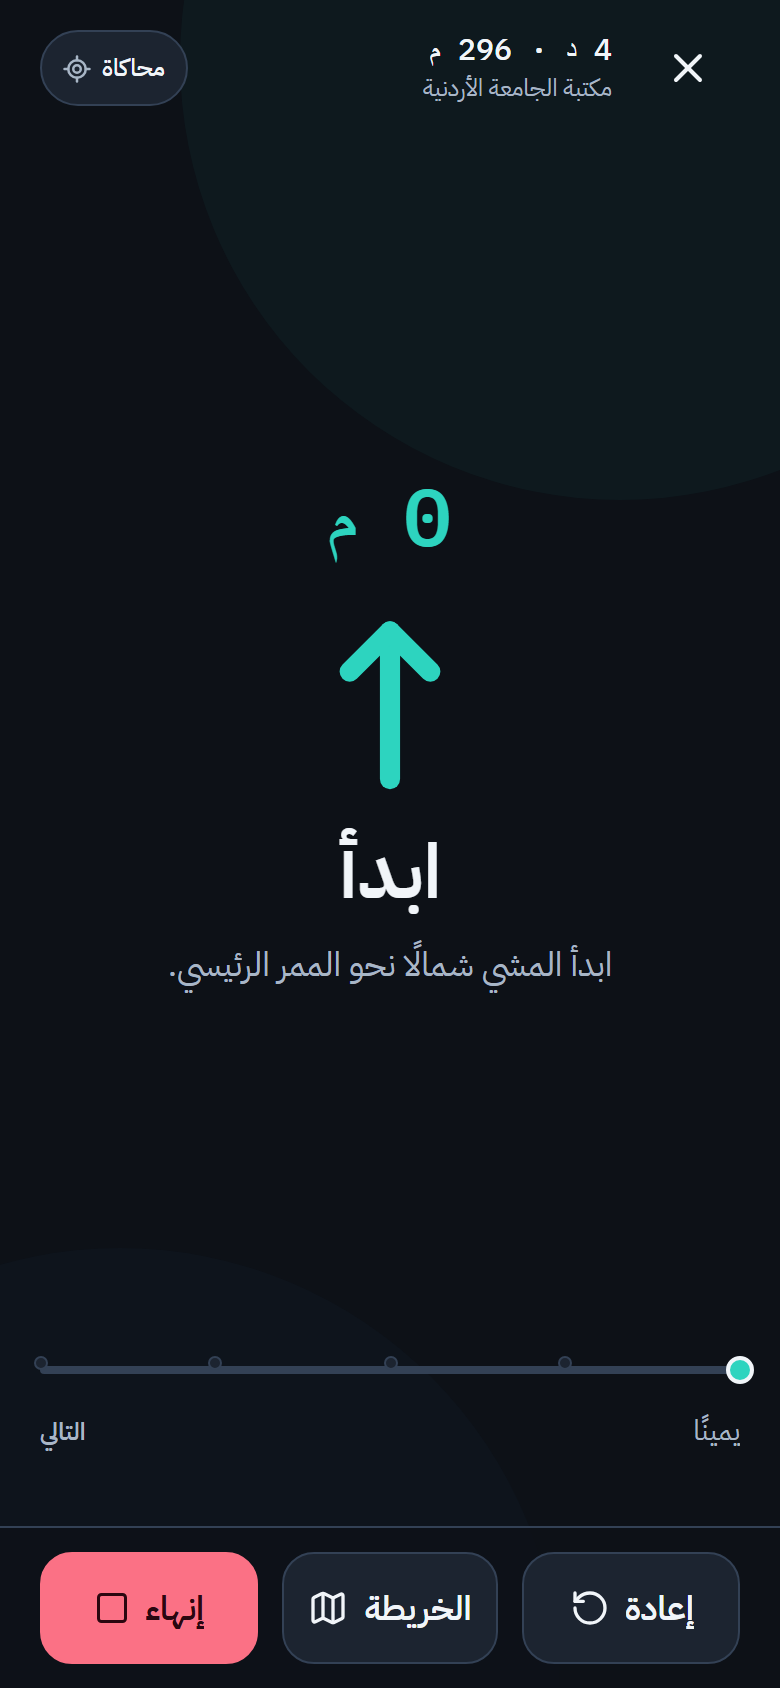
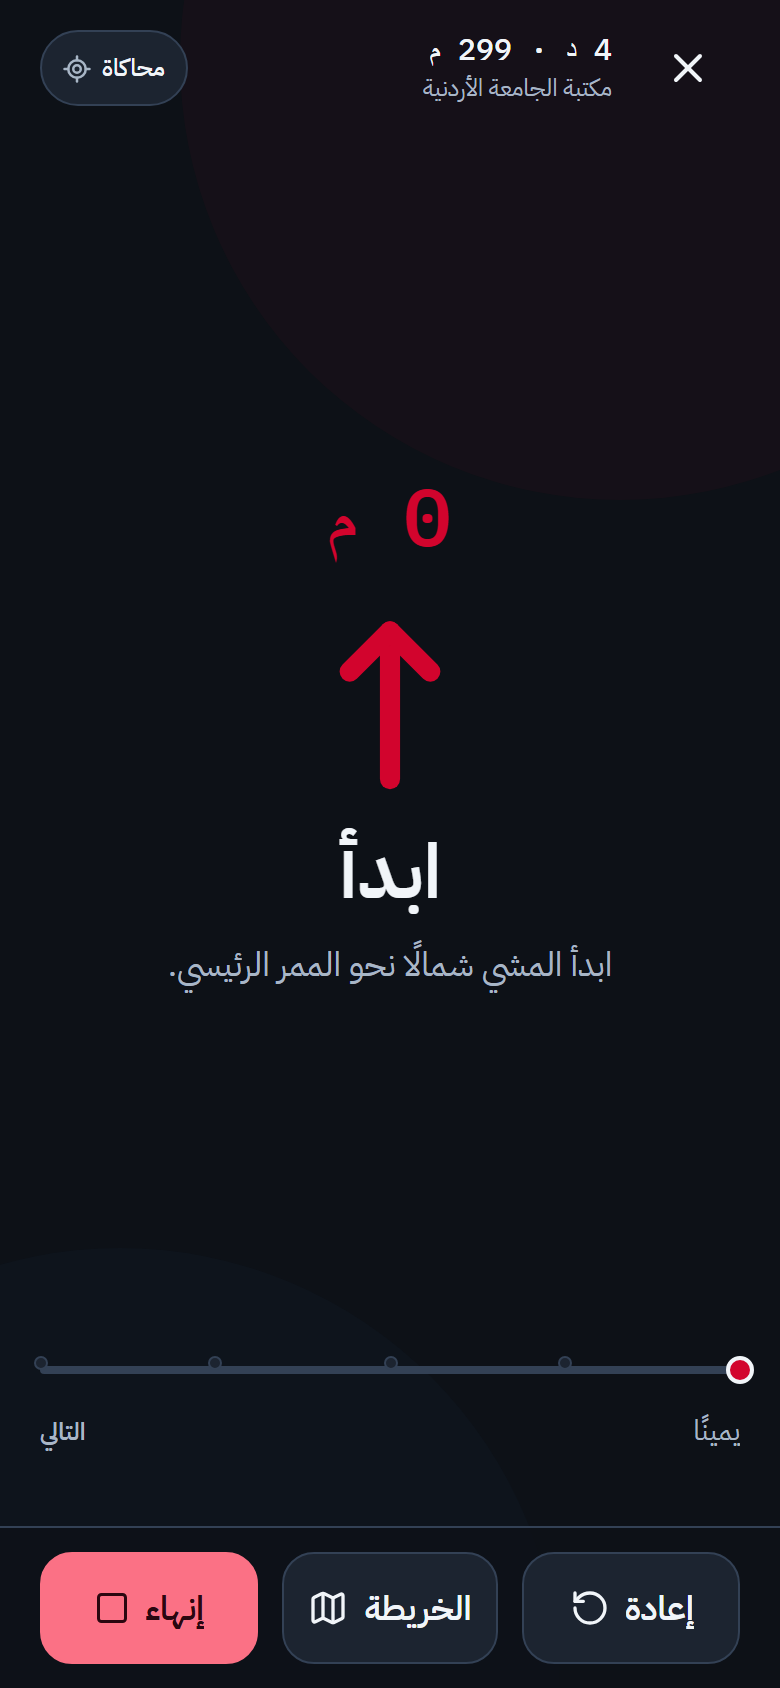
Use cherry-red accents and remove the Max theme

diff --git a/apps/mobile/src/app/settings.tsx b/apps/mobile/src/app/settings.tsx
@@ -2,7 +2,7 @@ import Constants from 'expo-constants';
 import { useRouter } from 'expo-router';
 import { Check } from 'lucide-react-native';
 import { useState, type ReactNode } from 'react';
-import { StyleSheet, Switch, Text, View } from 'react-native';
+import { StyleSheet, Text, View } from 'react-native';
 import { API_URL, getHealth } from '@/lib/api';
 import { t } from '@/lib/translate';
 import { useApp } from '@/state/AppProvider';
@@ -15,6 +15,7 @@ import { IconButton } from '@/ui/components/IconButton';
 import { Screen } from '@/ui/components/Screen';
 import { SegmentedControl } from '@/ui/components/SegmentedControl';
 import { SettingsRow } from '@/ui/components/SettingsRow';
+import { Toggle } from '@/ui/components/Toggle';
 import { TabBar } from '@/ui/components/TabBar';
 import { space } from '@/ui/tokens';
 import { fontFamily } from '@/ui/typography';
@@ -111,7 +112,6 @@ export default function SettingsScreen() {
               { value: 'auto', label: t(lang, 'auto') },
               { value: 'night', label: t(lang, 'night') },
               { value: 'daylight', label: t(lang, 'daylight') },
-              { value: 'contrast', label: t(lang, 'contrast') },
             ]}
             value={prefs.themeMode}
             onChange={(value) => updatePrefs({ themeMode: value })}
@@ -145,13 +145,10 @@ export default function SettingsScreen() {
 
         <Section title={t(lang, 'haptics')}>
           <SettingsRow label={t(lang, 'hapticsOn')} last>
-            <Switch
+            <Toggle
               value={prefs.haptics}
               onValueChange={(value) => updatePrefs({ haptics: value })}
-              trackColor={{ false: theme.border, true: theme.accent }}
-              thumbColor={theme.surface}
-              ios_backgroundColor={theme.border}
-              accessibilityLabel={t(lang, 'hapticsOn')}
+              label={t(lang, 'hapticsOn')}
             />
           </SettingsRow>
           <HapticLegend lang={lang} enabled={prefs.haptics} />
@@ -159,33 +156,24 @@ export default function SettingsScreen() {
 
         <Section title={t(lang, 'navigation')}>
           <SettingsRow label={t(lang, 'stepFree')}>
-            <Switch
+            <Toggle
               value={prefs.stepFree}
               onValueChange={(value) => updatePrefs({ stepFree: value })}
-              trackColor={{ false: theme.border, true: theme.accent }}
-              thumbColor={theme.surface}
-              ios_backgroundColor={theme.border}
-              accessibilityLabel={t(lang, 'stepFree')}
+              label={t(lang, 'stepFree')}
             />
           </SettingsRow>
           <SettingsRow label={t(lang, 'avoidStairs')}>
-            <Switch
+            <Toggle
               value={prefs.avoidStairs}
               onValueChange={(value) => updatePrefs({ avoidStairs: value })}
-              trackColor={{ false: theme.border, true: theme.accent }}
-              thumbColor={theme.surface}
-              ios_backgroundColor={theme.border}
-              accessibilityLabel={t(lang, 'avoidStairs')}
+              label={t(lang, 'avoidStairs')}
             />
           </SettingsRow>
           <SettingsRow label={t(lang, 'preferLit')} description={t(lang, 'navNote')} last>
-            <Switch
+            <Toggle
               value={prefs.preferLit}
               onValueChange={(value) => updatePrefs({ preferLit: value })}
-              trackColor={{ false: theme.border, true: theme.accent }}
-              thumbColor={theme.surface}
-              ios_backgroundColor={theme.border}
-              accessibilityLabel={t(lang, 'preferLit')}
+              label={t(lang, 'preferLit')}
             />
           </SettingsRow>
         </Section>
@@ -235,7 +223,7 @@ export default function SettingsScreen() {
               style={[
                 styles.health,
                 {
-                  color: health.includes(t(lang, 'backendFail')) ? theme.danger : theme.accent,
+                  color: health.includes(t(lang, 'backendFail')) ? theme.danger : theme.accentText,
                   fontSize: fs(12),
                   textAlign: isRTL ? 'right' : 'left',
                 },

diff --git a/apps/mobile/src/app/bus.tsx b/apps/mobile/src/app/bus.tsx
@@ -39,7 +39,7 @@ function OccupancyChip({ leg }: { leg: TransitLeg }) {
   const level: OccupancyLevel = leg.occupancy ?? 'unknown';
   const color =
     level === 'seats'
-      ? theme.accent
+      ? theme.accentText
       : level === 'standing'
         ? theme.warn
         : level === 'full'
@@ -165,7 +165,7 @@ function BusRow({ leg, now, lang }: { leg: TransitLeg; now: number; lang: Lang }
           <Bus size={13} color={lineColor} />
           <Text
             numberOfLines={1}
-            style={[styles.lineText, { color: lineColor, fontSize: fs(12) }]}
+            style={[styles.lineText, { color: theme.text, fontSize: fs(12) }]}
             maxFontSizeMultiplier={1.3}
           >
             {line}
@@ -203,7 +203,7 @@ function BusRow({ leg, now, lang }: { leg: TransitLeg; now: number; lang: Lang }
         </View>
         <View style={styles.countdownWrap}>
           <Text
-            style={[styles.countdown, { color: theme.accent, fontSize: fs(16) }]}
+            style={[styles.countdown, { color: theme.accentText, fontSize: fs(16) }]}
             maxFontSizeMultiplier={1.4}
           >
             {countdown(leg.departure_at, now, lang)}
@@ -261,7 +261,7 @@ function ItineraryCard({
     : itinerary.realtime
       ? t(lang, 'live')
       : t(lang, 'estimated');
-  const statusColor = itinerary.demo || !itinerary.realtime ? theme.warn : theme.accent;
+  const statusColor = itinerary.demo || !itinerary.realtime ? theme.warn : theme.accentText;
   const statusBackground = itinerary.demo || !itinerary.realtime ? theme.warnSoft : theme.accentSoft;
 
   return (

diff --git a/apps/mobile/src/ui/components/Toggle.tsx b/apps/mobile/src/ui/components/Toggle.tsx
@@ -1,0 +1,58 @@
+import { Pressable, StyleSheet, View } from 'react-native';
+import { useTheme } from '@/ui/useTheme';
+
+interface ToggleProps {
+  value: boolean;
+  onValueChange: (value: boolean) => void;
+  label: string;
+  disabled?: boolean;
+}
+
+export function Toggle({ value, onValueChange, label, disabled = false }: ToggleProps) {
+  const { theme, isRTL } = useTheme();
+  const knobPosition = value
+    ? isRTL
+      ? 'flex-start'
+      : 'flex-end'
+    : isRTL
+      ? 'flex-end'
+      : 'flex-start';
+
+  return (
+    <Pressable
+      onPress={() => onValueChange(!value)}
+      disabled={disabled}
+      accessibilityRole="switch"
+      accessibilityLabel={label}
+      accessibilityState={{ checked: value, disabled }}
+      hitSlop={8}
+      style={({ pressed }) => [
+        styles.track,
+        {
+          backgroundColor: value ? theme.accent : theme.border,
+          borderColor: value ? theme.accent : theme.border,
+          alignItems: knobPosition,
+          opacity: disabled ? 0.45 : pressed ? 0.8 : 1,
+        },
+      ]}
+    >
+      <View style={[styles.thumb, { backgroundColor: theme.surface }]} />
+    </Pressable>
+  );
+}
+
+const styles = StyleSheet.create({
+  track: {
+    width: 52,
+    height: 32,
+    borderRadius: 16,
+    borderWidth: 1,
+    padding: 2,
+    justifyContent: 'center',
+  },
+  thumb: {
+    width: 26,
+    height: 26,
+    borderRadius: 13,
+  },
+});

diff --git a/apps/mobile/src/ui/__tests__/themes.test.ts b/apps/mobile/src/ui/__tests__/themes.test.ts
@@ -18,7 +18,7 @@ function contrast(a: string, b: string): number {
 
 describe('themes', () => {
   it('ships exactly the three accessible themes', () => {
-    expect(Object.keys(themes).sort()).toEqual(['contrast', 'daylight', 'night']);
+    expect(Object.keys(themes).sort()).toEqual(['daylight', 'night']);
   });
 
   it.each(Object.entries(themes))('%s keeps body and control contrast', (_name, theme) => {
@@ -27,5 +27,7 @@ describe('themes', () => {
     expect(contrast(theme.textMuted, theme.surface)).toBeGreaterThanOrEqual(4.5);
     expect(contrast(theme.accentInk, theme.accent)).toBeGreaterThanOrEqual(4.5);
     expect(contrast(theme.accent, theme.bg)).toBeGreaterThanOrEqual(3);
+    expect(contrast(theme.accentText, theme.surface)).toBeGreaterThanOrEqual(4.5);
+    expect(contrast(theme.accentText, theme.surfaceRaised)).toBeGreaterThanOrEqual(4.5);
   });
 });

diff --git a/apps/mobile/src/ui/components/IconButton.tsx b/apps/mobile/src/ui/components/IconButton.tsx
@@ -22,7 +22,7 @@ export function IconButton({
   style,
   disabled = false,
 }: IconButtonProps) {
-  const { theme, themeName } = useTheme();
+  const { theme } = useTheme();
   const backgroundColor =
     variant === 'accent' ? theme.accent : variant === 'surface' ? theme.surfaceRaised : 'transparent';
   const color = variant === 'accent' ? theme.accentInk : theme.text;
@@ -43,7 +43,7 @@ export function IconButton({
           borderRadius: radius.pill,
           backgroundColor,
           borderColor: variant === 'ghost' ? 'transparent' : theme.border,
-          borderWidth: variant === 'ghost' ? 0 : themeName === 'contrast' ? 2 : 1,
+          borderWidth: variant === 'ghost' ? 0 : 1,
           opacity: disabled ? 0.4 : 1,
         },
         style,

diff --git a/apps/mobile/src/ui/components/TabBar.tsx b/apps/mobile/src/ui/components/TabBar.tsx
@@ -53,7 +53,7 @@ export function TabBar({ active, lang }: { active: Tab; lang: Lang }) {
           >
             <Icon
               size={22}
-              color={selected ? theme.accent : theme.textMuted}
+              color={selected ? theme.accentText : theme.textMuted}
               strokeWidth={selected ? 2.6 : 2}
             />
             <Text
@@ -61,7 +61,7 @@ export function TabBar({ active, lang }: { active: Tab; lang: Lang }) {
               style={[
                 styles.label,
                 {
-                  color: selected ? theme.accent : theme.textMuted,
+                  color: selected ? theme.accentText : theme.textMuted,
                   fontSize: fs(12),
                 },
               ]}

diff --git a/apps/mobile/src/ui/components/Card.tsx b/apps/mobile/src/ui/components/Card.tsx
@@ -28,18 +28,18 @@ export function Card({
   style,
   padding = space.lg,
 }: CardProps) {
-  const { theme, themeName } = useTheme();
+  const { theme } = useTheme();
   const base: ViewStyle = {
     backgroundColor: elevated ? theme.surfaceRaised : theme.surface,
     borderColor: theme.border,
-    borderWidth: themeName === 'contrast' ? 2 : 1,
+    borderWidth: 1,
     borderRadius: radius.lg,
     padding,
     shadowColor: theme.shadow,
-    shadowOpacity: themeName === 'contrast' ? 0 : 0.16,
+    shadowOpacity: 0.16,
     shadowRadius: 18,
     shadowOffset: { width: 0, height: 8 },
-    elevation: themeName === 'contrast' ? 0 : 2,
+    elevation: 2,
   };
 
   if (onPress) {

diff --git a/apps/mobile/src/app/plan.tsx b/apps/mobile/src/app/plan.tsx
@@ -171,7 +171,7 @@ export default function PlanScreen() {
             style={[
               styles.destination,
               {
-                color: theme.accent,
+                color: theme.accentText,
                 fontSize: fs(13),
                 textAlign: isRTL ? 'right' : 'left',
               },
@@ -216,7 +216,7 @@ export default function PlanScreen() {
             style={[
               styles.demoLink,
               {
-                color: theme.accent,
+                color: theme.accentText,
                 fontSize: fs(15),
                 textAlign: isRTL ? 'right' : 'left',
               },

diff --git a/apps/mobile/src/ui/components/Button.tsx b/apps/mobile/src/ui/components/Button.tsx
@@ -49,7 +49,7 @@ export function Button({
   accessibilityLabel,
   accessibilityHint,
 }: ButtonProps) {
-  const { theme, themeName, fs } = useTheme();
+  const { theme, fs } = useTheme();
 
   const palette =
     variant === 'primary'
@@ -78,7 +78,7 @@ export function Button({
           minHeight: HEIGHTS[size],
           backgroundColor: palette.bg,
           borderColor: palette.border,
-          borderWidth: themeName === 'contrast' ? 2 : 1,
+          borderWidth: 1,
           opacity: inactive ? 0.45 : 1,
           paddingHorizontal: size === 'sm' ? space.md : space.xl,
         },

diff --git a/apps/mobile/src/ui/components/SegmentedControl.tsx b/apps/mobile/src/ui/components/SegmentedControl.tsx
@@ -21,7 +21,7 @@ export function SegmentedControl<T extends string | number>({
   onChange,
   label,
 }: SegmentedControlProps<T>) {
-  const { theme, themeName, isRTL, fs } = useTheme();
+  const { theme, isRTL, fs } = useTheme();
 
   return (
     <View
@@ -33,7 +33,7 @@ export function SegmentedControl<T extends string | number>({
           flexDirection: isRTL ? 'row-reverse' : 'row',
           backgroundColor: theme.surfaceRaised,
           borderColor: theme.border,
-          borderWidth: themeName === 'contrast' ? 2 : 1,
+          borderWidth: 1,
         },
       ]}
     >

diff --git a/apps/mobile/src/app/converse.tsx b/apps/mobile/src/app/converse.tsx
@@ -125,7 +125,7 @@ export default function ConverseScreen() {
             </Text>
             <View style={[styles.livePill, { backgroundColor: theme.accentSoft }]}>
               <View style={[styles.liveDot, { backgroundColor: theme.accent }]} />
-              <Text style={[styles.liveText, { color: theme.accent, fontSize: fs(11) }]}>
+              <Text style={[styles.liveText, { color: theme.accentText, fontSize: fs(11) }]}>
                 LIVE
               </Text>
             </View>

diff --git a/apps/mobile/src/ui/components/BottomDock.tsx b/apps/mobile/src/ui/components/BottomDock.tsx
@@ -12,10 +12,10 @@ interface BottomDockProps {
 }
 
 export function BottomDock({ children, style }: BottomDockProps) {
-  const { theme, themeName, isRTL } = useTheme();
+  const { theme, isRTL } = useTheme();
   const insets = useSafeAreaInsets();
   const reducedMotion = useReducedMotion();
-  const useBlur = Platform.OS === 'ios' && themeName !== 'contrast' && !reducedMotion;
+  const useBlur = Platform.OS === 'ios' && !reducedMotion;
 
   return (
     <View
